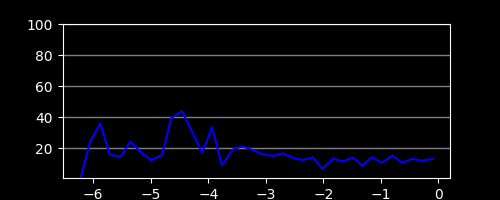
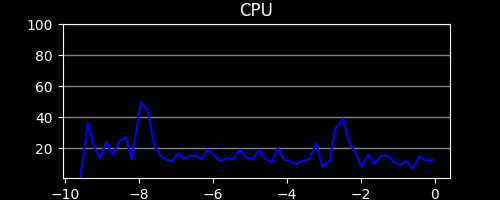
performance changes

diff --git a/src/debug_utils.py b/src/debug_utils.py
@@ -101,17 +101,14 @@ def split_graphing_data():
 
 app = customtkinter.CTk()
 app.title("Graphing Test")
-app.geometry("1200x600")
-app.attributes("-fullscreen", True)
+app.geometry("500x500")
+#app.attributes("-fullscreen", True)
 cpu_label = customtkinter.CTkLabel(app, text="",fg_color="gray16",bg_color="black")
 cpu_label.pack(fill="both",expand=True,padx=10,pady=10)
 mem_label = customtkinter.CTkLabel(app, text="",fg_color="gray16",bg_color="black")
 mem_label.pack(fill="both",expand=True,padx=10,pady=10)
 temp_label = customtkinter.CTkLabel(app, text="",fg_color="gray16",bg_color="black")
 temp_label.pack(fill="both",expand=True,padx=10,pady=10)
-
-def after_loop():       
-    app.after(100, after_loop)
 
 def collect():
     while True:
@@ -120,9 +117,9 @@ def collect():
         time.sleep(0.1)
 
 def plots():
-    while True:
-        plt.title("CPU")
+    while True:     
         plt.figure(figsize=(5,2))
+        plt.title("CPU")
         plt.ylim(1,100)
         plt.style.use("dark_background")
         plt.grid(axis="y",color="gray",lw=1)     
@@ -132,8 +129,8 @@ def plots():
         cpu_label.configure(image=ctk_cpu_img)
         save_ctk_cpu_img = ctk_cpu_img
 
-        plt.title("RAM")
         plt.figure(figsize=(5,2))
+        plt.title("RAM")
         plt.ylim(1,100)
         plt.style.use("dark_background")
         plt.grid(axis="y",color="gray",lw=1)     
@@ -143,8 +140,8 @@ def plots():
         mem_label.configure(image=ctk_mem_img)
         save_ctk_mem_img = ctk_mem_img
 
-        plt.title("TEMP")
         plt.figure(figsize=(5,2))
+        plt.title("TEMP")
         plt.ylim(1,100)
         plt.style.use("dark_background")
         plt.grid(axis="y",color="gray",lw=1)     
@@ -154,16 +151,15 @@ def plots():
         temp_label.configure(image=ctk_temp_img)
         save_ctk_temp_img = ctk_temp_img
 
-        time.sleep(0.1)
         plt.close("all")
+        time.sleep(0.1)
 
 collect_debug_thread = threading.Thread(target=collect, daemon=True)
 collect_debug_thread.start()
 
-plot_debug_thread = threading.Thread(target=plots, daemon=True)
-plot_debug_thread.start()
+plotting_thread = threading.Thread(target=plots, daemon=True)
+plotting_thread.start()
 
-#app.after(100, after_loop)
 app.mainloop()
 
 
